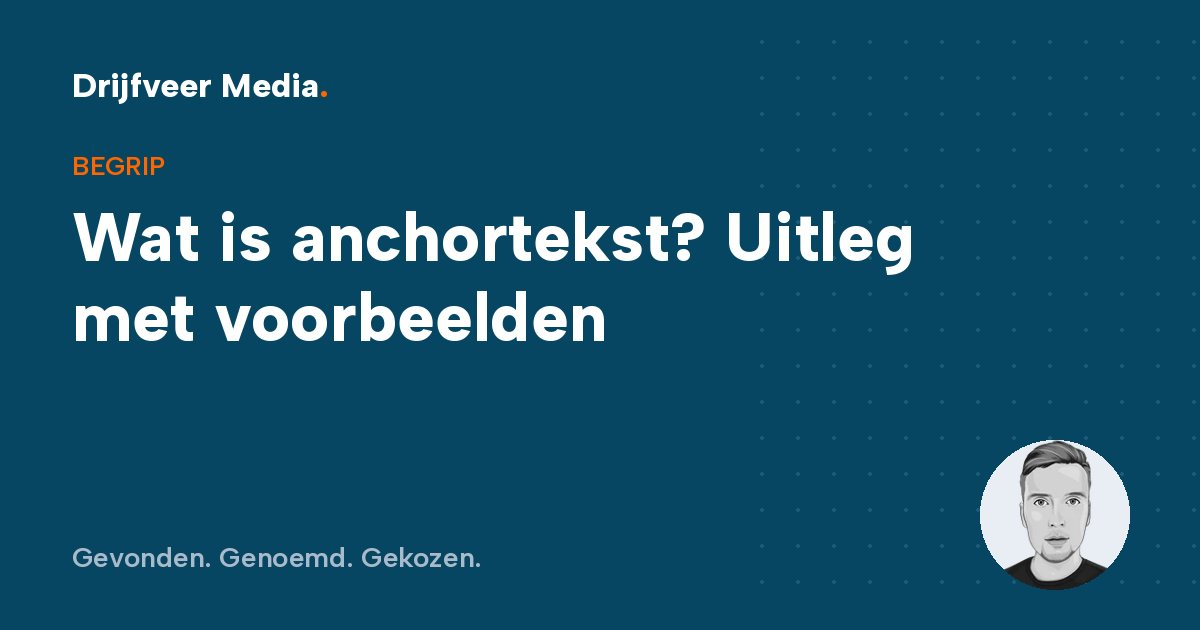
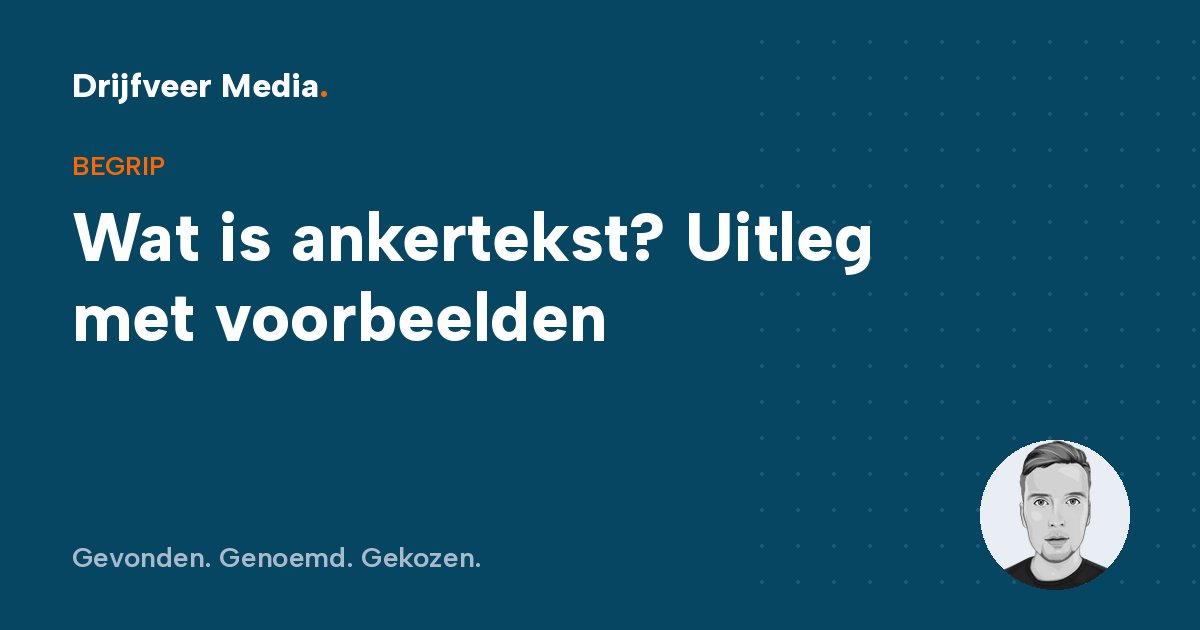
LocalBusiness-schema en FAQ-pagina

Changed region(s): [[0.3083, 0.3317, 0.7708, 0.4524]]

diff --git a/scripts/llms.py b/scripts/llms.py
@@ -28,6 +28,7 @@ tekst = f"""# Drijfveer Media
 - Prijzen: https://www.drijfveermedia.nl/prijzen/
 - Gratis website-analyse: https://www.drijfveermedia.nl/gratis-website-analyse/
 - Contact: https://www.drijfveermedia.nl/contact/
+- Veelgestelde vragen (adres, openingstijden, prijzen, afspraken): https://www.drijfveermedia.nl/veelgestelde-vragen/
 
 ## Diensten en prijzen
 {chr(10).join(diensten)}
